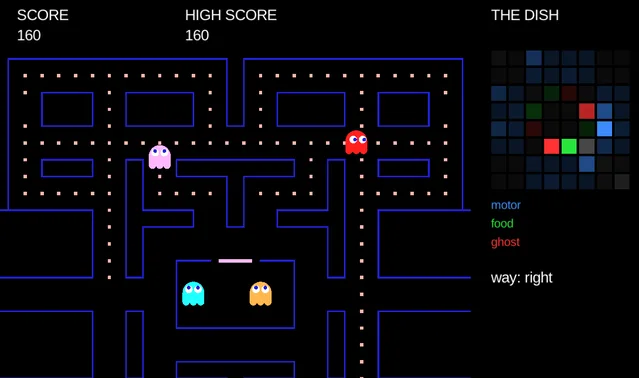
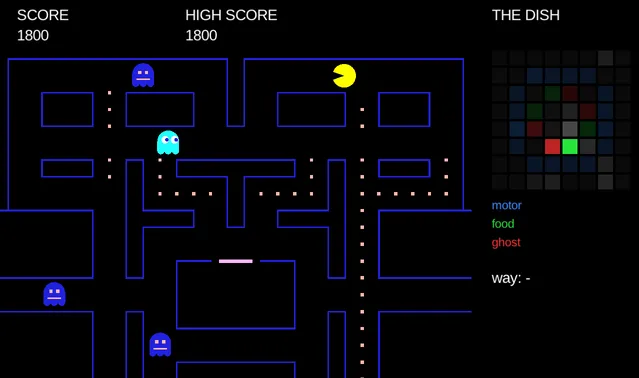
Pac-Man steered by the dish: Pong's lessons and frightened ghosts as food.
dishpilot.c: DISH_MOTOR=1 (default) the motor regions only the ring that
touches the sensory electrodes; DISH_DECODER=1 (default) each region read
against its own 2 s background; DISH_PREY=1 (default) the nearest
frightened ghost within 12 tiles told as food, ahead of the pellets; the
page takes ?motor=, ?decoder=, ?prey=. pacman_dish.ent tells only ghosts
out in the maze (not those in the house or eyes).

Fast headless runs, 4 dish seeds, 20 minutes each (77-89 games a setup),
mean score a game: as before 1338 +- 88; ring alone 1346; background alone
1496; both 1779 +- 100 (every seed better); with prey 1811 +- 104 (prey
not settled: +32); no stims 658.

diff --git a/tools/pages/index.html b/tools/pages/index.html
@@ -142,7 +142,7 @@
       <a class="shot" href="dish-pacman/"><img src="shots/dish-pacman.webp" alt="The maze game beside a grid of electrodes lit by the dish's spikes" loading="lazy"></a>
       <div class="body">
         <h3><a href="dish-pacman/">Pac-Man steered by a dish</a></h3>
-        <p>The maze game with the same simulated dish as its pilot: where the nearest pellet and the nearest ghost are is stimulated into it, and the motor region that fires most picks his way. Nothing is learnt; the wiring does it. Add <code>?seed=</code> and any text to the address for another dish.</p>
+        <p>The maze game with the same simulated dish as its pilot: where the nearest pellet (or a frightened ghost) and the nearest ghost are is stimulated into it, and the motor region that fires most above its usual picks his way. Nothing is learnt; the wiring does it, now with Pong's lessons: motor regions only beside the electrodes that drive them, each read against its own background (a third more points a game). Add <code>?seed=</code> and any text to the address for another dish.</p>
         <div class="keys">held arrows take over, <kbd>Enter</kbd> again</div>
         <div class="links"><a href="dish-pacman/">Open</a><a href="https://github.com/mzaks/ent-lang/tree/main/examples/cl_bridge/pacman">Source</a></div>
       </div>

diff --git a/examples/cl_bridge/pacman/dishpilot.pre.js b/examples/cl_bridge/pacman/dishpilot.pre.js
@@ -2,8 +2,9 @@
 // module (dish.mjs and dish.wasm, next to the page: examples/cl_bridge/web/
 // build.sh) is loaded as Module.dish, and the URL's ?seed= (any text,
 // hashed as ent_dish.seed_of does: FNV-1a of its UTF-8, its low 31 bits),
-// ?stim=0 and ?ghosts= are put where dishpilot.c reads DISH_SEED,
-// DISH_STIM and DISH_GHOSTS.
+// ?stim=0, ?ghosts=, ?motor=, ?decoder= and ?prey= are put where
+// dishpilot.c reads DISH_SEED, DISH_STIM, DISH_GHOSTS, DISH_MOTOR,
+// DISH_DECODER and DISH_PREY.
 Module.preRun = Module.preRun || [];
 Module.preRun.push(function () {
   var query = new URLSearchParams(location.search);
@@ -20,6 +21,8 @@ Module.preRun.push(function () {
   }
   if (query.get("stim") !== null) ENV.DISH_STIM = query.get("stim");
   if (query.get("ghosts") !== null) ENV.DISH_GHOSTS = query.get("ghosts");
+  for (var name of ["motor", "decoder", "prey"])
+    if (query.get(name) !== null) ENV["DISH_" + name.toUpperCase()] = query.get(name);
   addRunDependency("dish");
   import(new URL("dish.mjs", document.baseURI).href)
     .then(function (made) { return made.default(); })

diff --git a/examples/cl_bridge/pacman/dishpilot.c b/examples/cl_bridge/pacman/dishpilot.c
@@ -5,11 +5,19 @@
 // axons' length (0.11, so stims do not drive the motor regions directly),
 // DISH_STIM=0 leaves the stims out, DISH_GHOSTS=0 the ghosts' (-1: their
 // electrodes beside the same way's region, towards them); PACMAN_FAST=1 asks the game to run
-// as fast as it can.
+// as fast as it can. DISH_MOTOR=0 the motor regions two electrodes deep
+// (as first built), 1 (the default) only the ring that touches the
+// sensory electrodes (Pong's lesson: a region beside the electrodes that
+// drive it answers them; one far off answers its own noise). DISH_DECODER=0
+// reads the regions as they fire, 1 (the default) each against its own
+// background (its average over 2 s), as Pong's paddle does. DISH_PREY=0
+// leaves frightened ghosts out; 1 (the default) tells the nearest within
+// 12 tiles as food, ahead of the pellets.
 //
 // Layout on the 8 x 8 grid (channel = row * 8 + col):
 //   motor up    rows 0-1, cols 2-5      motor down  rows 6-7, cols 2-5
 //   motor left  cols 0-1, rows 2-5      motor right cols 6-7, rows 2-5
+//   (DISH_MOTOR=1: only row 1, row 6, col 1 and col 6 of those)
 //   sensory, the middle 4 x 4: one electrode for each way the nearest
 //   pellet is (food), beside that way's motor region, and one for each
 //   way the nearest ghost is (danger), beside the opposite way's,
@@ -22,8 +30,9 @@
 // dish.wasm, next to the page), loaded by dishpilot.pre.js before the game
 // starts, and called through the functions below, which copy the spikes
 // from its memory into the game's. The URL's ?seed= (any text, hashed as
-// ent_dish.seed_of does), ?stim=0 and ?ghosts= stand for DISH_SEED,
-// DISH_STIM and DISH_GHOSTS.
+// ent_dish.seed_of does), ?stim=0, ?ghosts=, ?motor=, ?decoder= and
+// ?prey= stand for DISH_SEED, DISH_STIM, DISH_GHOSTS, DISH_MOTOR,
+// DISH_DECODER and DISH_PREY.
 #define _GNU_SOURCE
 #ifndef __EMSCRIPTEN__
 #include <dlfcn.h>
@@ -119,10 +128,11 @@ static const int DANGER[4] = {34, 20, 29, 43};
 // DISH_GHOSTS=-1: beside the same way's region instead (towards him),
 // 0: no ghost stims.
 static const int TOWARDS[4] = {29, 43, 34, 20};
-static int ghosts = 1;
+static int ghosts = 1, inner = 1, decoder = 1, prey = 1;
+#define PREY_RANGE 12
 static int role[64];
-static float motor[4], activity[64];
-static int food_dc, food_dr, food_d, ghost_dc, ghost_dr, ghost_d;
+static float motor[4], base[4], activity[64];
+static int food_dc, food_dr, food_d, ghost_dc, ghost_dr, ghost_d, prey_dc, prey_dr, prey_d;
 static double food_due, danger_due, now_ms;
 static int quiet;  // DISH_STIM=0: no stims, the dish's own activity alone
 
@@ -158,13 +168,18 @@ static void open_dish(void) {
   quiet = stim && atoi(stim) == 0;
   const char *g = getenv("DISH_GHOSTS");
   ghosts = g ? atoi(g) : 1;
+  const char *m = getenv("DISH_MOTOR"), *dec = getenv("DISH_DECODER"), *pr = getenv("DISH_PREY");
+  inner = m ? atoi(m) : 1;
+  decoder = dec ? atoi(dec) : 1;
+  prey = pr ? atoi(pr) : 1;
+  int lo = inner ? 1 : 0, hi = inner ? 6 : 7;   // the rows and columns the regions take
   for (int c = 0; c < 64; ++c) {
     int r = c / 8, k = c % 8;
     role[c] = -1;
-    if (r <= 1 && k >= 2 && k <= 5) role[c] = 3;
-    if (r >= 6 && k >= 2 && k <= 5) role[c] = 1;
-    if (k <= 1 && r >= 2 && r <= 5) role[c] = 2;
-    if (k >= 6 && r >= 2 && r <= 5) role[c] = 0;
+    if (r >= lo && r <= 1 && k >= 2 && k <= 5) role[c] = 3;
+    if (r >= 6 && r <= hi && k >= 2 && k <= 5) role[c] = 1;
+    if (k >= lo && k <= 1 && r >= 2 && r <= 5) role[c] = 2;
+    if (k >= 6 && k <= hi && r >= 2 && r <= 5) role[c] = 0;
   }
   for (int i = 0; i < 4; ++i) {
     role[FOOD[i]] = 4;
@@ -177,7 +192,7 @@ static void open_dish(void) {
 
 void ent_dishpilot_pilot_begin(void) {
   open_dish();
-  food_d = ghost_d = 1 << 30;
+  food_d = ghost_d = prey_d = 1 << 30;
 }
 
 void ent_dishpilot_pilot_pellet(int32_t dc, int32_t dr) {
@@ -188,6 +203,7 @@ void ent_dishpilot_pilot_pellet(int32_t dc, int32_t dr) {
 void ent_dishpilot_pilot_ghost(int32_t dc, int32_t dr, bool scared) {
   int d = abs(dc) + abs(dr);
   if (!scared && d < ghost_d) { ghost_d = d; ghost_dc = dc; ghost_dr = dr; }
+  if (scared && d < prey_d) { prey_d = d; prey_dc = dc; prey_dr = dr; }
 }
 
 static int way(int dc, int dr) {
@@ -203,20 +219,26 @@ static double rate(int d, int far) {
 int32_t ent_dishpilot_pilot_step(float ms) {
   open_dish();
   int n = (int)lroundf(fminf(ms, 50.0f));
-  float decay = expf(-1.0f / 100.0f);
+  float decay = expf(-1.0f / 100.0f), base_decay = expf(-1.0f / 2000.0f);
   int32_t ch[4096], st[4096];
+  // A frightened ghost near enough is the food, ahead of the pellets.
+  int hunt = prey && prey_d <= PREY_RANGE;
+  int fd = hunt ? prey_d : food_d, fdc = hunt ? prey_dc : food_dc, fdr = hunt ? prey_dr : food_dr;
   for (int i = 0; i < n; ++i) {
     now_ms += 1.0;
-    if (!quiet && food_d < (1 << 30) && now_ms >= food_due) {
-      stimulate(dish, FOOD[way(food_dc, food_dr)], 1.0f);
-      food_due = now_ms + 1000.0 / rate(food_d, 30);
+    if (!quiet && fd < (1 << 30) && now_ms >= food_due) {
+      stimulate(dish, FOOD[way(fdc, fdr)], 1.0f);
+      food_due = now_ms + 1000.0 / rate(fd, 30);
     }
     if (!quiet && ghosts != 0 && ghost_d <= 10 && now_ms >= danger_due) {
       stimulate(dish, (ghosts < 0 ? TOWARDS : DANGER)[way(ghost_dc, ghost_dr)], 1.0f);
       danger_due = now_ms + 1000.0 / rate(ghost_d, 10);
     }
     step(dish, 1);
-    for (int k = 0; k < 4; ++k) motor[k] *= decay;
+    for (int k = 0; k < 4; ++k) {
+      motor[k] *= decay;
+      base[k] = base_decay * base[k] + (1 - base_decay) * motor[k];
+    }
     for (int c = 0; c < 64; ++c) activity[c] *= decay;
     int64_t got;
     while ((got = spikes(dish, ch, st, 4096)) > 0)
@@ -225,10 +247,18 @@ int32_t ent_dishpilot_pilot_step(float ms) {
         if (role[ch[j]] >= 0 && role[ch[j]] < 4) motor[role[ch[j]]] += 1.0f;
       }
   }
+  // Each region's pull: its spikes, or (decoder 1) what it fires above its
+  // own background; the way is the strongest if it leads the next by 10%
+  // of the larger region's.
+  float pull[4], big = 0.0f;
+  for (int k = 0; k < 4; ++k) {
+    pull[k] = decoder ? motor[k] - base[k] : motor[k];
+    if (motor[k] > big) big = motor[k];
+  }
   int best = 0, second = -1;
-  for (int k = 1; k < 4; ++k) if (motor[k] > motor[best]) best = k;
-  for (int k = 0; k < 4; ++k) if (k != best && (second < 0 || motor[k] > motor[second])) second = k;
-  if (motor[best] <= 0.0f || motor[best] - motor[second] < 0.1f * motor[best]) return 4;
+  for (int k = 1; k < 4; ++k) if (pull[k] > pull[best]) best = k;
+  for (int k = 0; k < 4; ++k) if (k != best && (second < 0 || pull[k] > pull[second])) second = k;
+  if (big <= 0.0f || pull[best] <= 0.0f || pull[best] - pull[second] < 0.1f * big) return 4;
   return best;
 }
 
